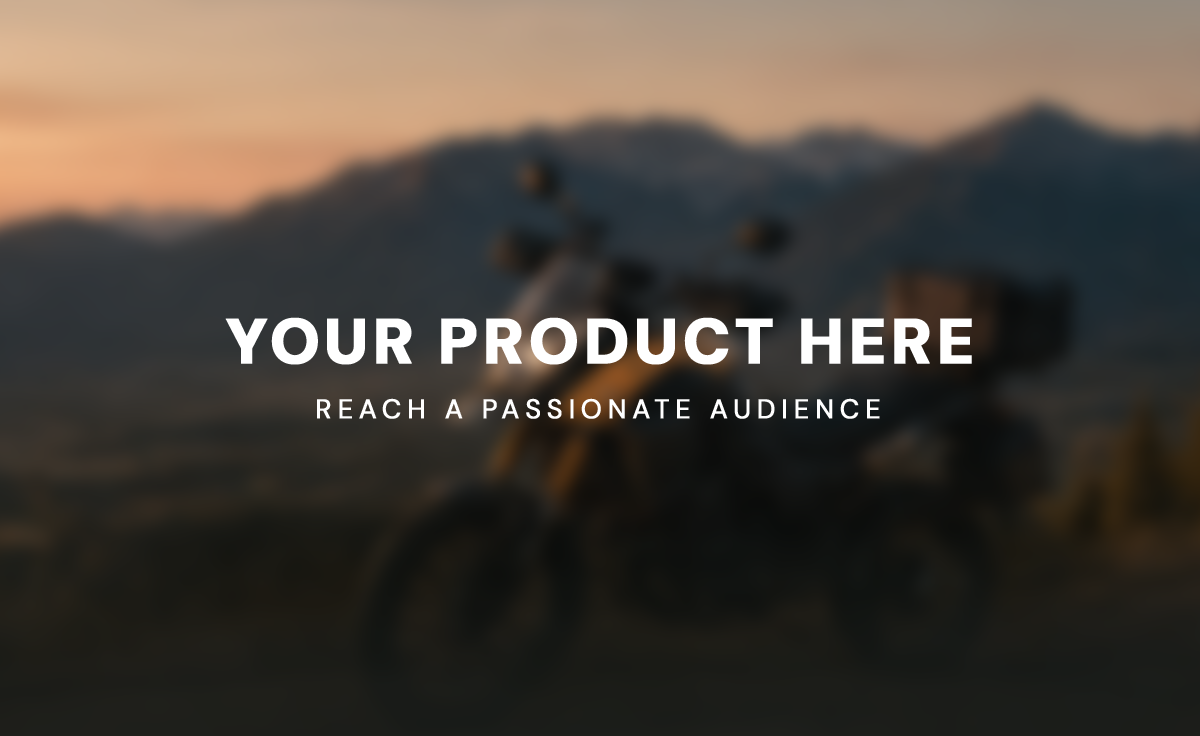
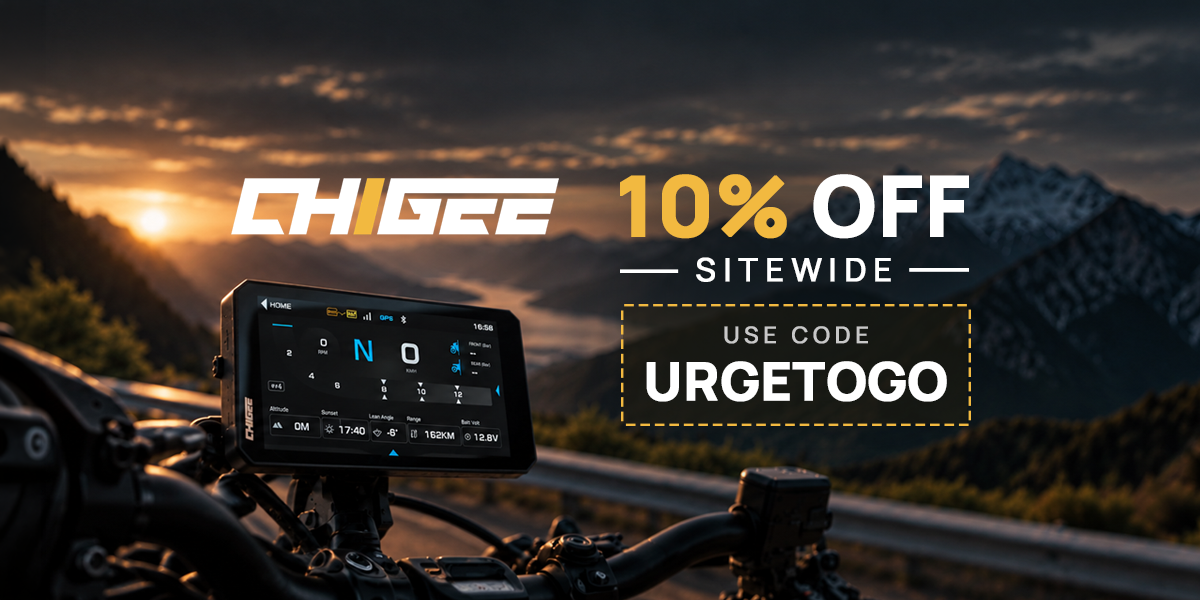
Add files via upload

diff --git a/motorcycle.html b/motorcycle.html
@@ -32,6 +32,11 @@
 <button aria-expanded="false" aria-label="Toggle navigation" class="menu">☰</button>
 </div>
 </header>
+<div class="motorcycle-promo-bar">
+  <span>
+    Use code <strong>URGETOGO</strong> on selected discounts!
+  </span>
+</div>
 <main>
 <section class="gear-page-hero gear-page-hero--motorcycle">
 <p class="eyebrow">URGE TO GO / MY SETUP</p>
@@ -67,6 +72,9 @@
 <h2>Accessories</h2>
 <p class="setup-category-subtitle">What I take</p>
 <ul class="setup-product-list">
+  <!-- Copy either list item to add another linked product with a discount badge. -->
+  <li><a href="https://www.chigee.com/URGETOGO" target="_blank" rel="noopener noreferrer">CHIGEE AIO-6 LTE ↗</a> <span class="setup-discount-badge">10% OFF</span></li>
+  <li><a href="https://carplaymotorcycle.com/?ref=URGETOGO" target="_blank" rel="noopener noreferrer">CPMC N6 CarPlay Screen ↗</a> <span class="setup-discount-badge">22% OFF</span></li>
   <li>
   <a href="https://monimoto.com/eu/product/tracker-monimoto-9/" target="_blank" rel="noopener noreferrer">
     Monimoto 9 GPS Tracker ↗
@@ -77,16 +85,16 @@
 </ul>
 </article>
 </div>
-<h2 class="setup-featured-title">FEATURED PRODUCTS</h2>
+<h2 class="setup-featured-title">FEATURED</h2>
 <div aria-label="Product sponsorship opportunities" class="setup-sponsors">
-<a aria-label="Featured product 1 — contact URGE TO GO" class="setup-sponsor-slot" href="index.html#contact">
-<img class="setup-sponsor-image" src="images/motorcycle-featured-1.png" alt="Advertising space — replace this image with your campaign">
+<a aria-label="Featured product 1" class="setup-sponsor-slot" href="https://www.chigee.com/URGETOGO">
+<img class="setup-sponsor-image" src="images/motorcycle-featured-1.png" alt="Featured Product 1">
 </a>
-<a aria-label="Featured product 2 — contact URGE TO GO" class="setup-sponsor-slot" href="index.html#contact">
-<img class="setup-sponsor-image" src="images/motorcycle-featured-2.png" alt="Advertising space — replace this image with your campaign">
+<a aria-label="Featured product 2" class="setup-sponsor-slot" href="index.html#contact">
+<img class="setup-sponsor-image" src="images/motorcycle-featured-2.png" alt="Featured Product 1">
 </a>
-<a aria-label="Featured product 3 — contact URGE TO GO" class="setup-sponsor-slot" href="index.html#contact">
-<img class="setup-sponsor-image" src="images/motorcycle-featured-3.png" alt="Advertising space — replace this image with your campaign">
+<a aria-label="Featured product 3" class="setup-sponsor-slot" href="https://carplaymotorcycle.com/?ref=URGETOGO">
+<img class="setup-sponsor-image" src="images/motorcycle-featured-3.png" alt="Featured Product 1">
 </a>
 </div>
 <p class="affiliate-note">Disclosure: Some product links may be affiliate links. I may earn a commission at no additional cost to you.</p>

diff --git a/style.css b/style.css
@@ -1852,3 +1852,71 @@ footer {
 .collab-partners .collab-partner-slot:hover .shared-partner-logo {
   transform: scale(1.15);
 }
+
+/* Reusable inline discount label for setup product lists. */
+.setup-product-list .setup-discount-badge {
+  display: inline-block;
+  vertical-align: middle;
+  margin-left: 5px;
+  padding: 1px 6px;
+  border-radius: 3px;
+  background: #bb302c;
+  color: #fff;
+  font-size: 12px;
+  font-weight: 800;
+  line-height: 1.5;
+  white-space: nowrap;
+}
+
+/* Align product text and discount badge by their vertical centers, not baselines. */
+.setup-product-list li:has(> .setup-discount-badge) {
+  display: flex;
+  align-items: center;
+  flex-wrap: wrap;
+  column-gap: 7px;
+  row-gap: 3px;
+}
+.setup-product-list li > .setup-discount-badge {
+  margin-left: 0;
+  vertical-align: baseline; /* Flex alignment controls vertical position. */
+  flex: 0 0 auto;
+}
+
+/* Sticky discount announcement below the navigation */
+.motorcycle-promo-bar {
+  position: sticky;
+  top: 76px;
+  z-index: 29;
+  display: flex;
+  justify-content: center;
+  align-items: center;
+  min-height: 38px;
+  padding: 9px 16px;
+  background: #a92e2b;
+  color: #fff;
+  text-align: center;
+  font: 400 12px/1.4 Manrope, sans-serif;
+  letter-spacing: .065em;
+}
+
+/* Extra-bold discount code */
+.motorcycle-promo-bar strong {
+  font-weight: 800;
+  font-size: 13px;
+  color: #fff;
+  letter-spacing: 1px;
+}
+
+/* Mobile adjustments */
+@media (max-width: 800px) {
+  .motorcycle-promo-bar {
+    top: 66px;
+    padding: 8px 12px;
+    font-size: 10px;
+    letter-spacing: .025em;
+  }
+
+  .motorcycle-promo-bar strong {
+    font-size: 11px;
+  }
+}

diff --git a/camping.html b/camping.html
@@ -64,16 +64,16 @@
 </ul>
 </article>
 </div>
-<h2 class="setup-featured-title">FEATURED PRODUCTS</h2>
+<h2 class="setup-featured-title">FEATURED</h2>
 <div aria-label="Product sponsorship opportunities" class="setup-sponsors">
 <a aria-label="Featured product 1 — contact URGE TO GO" class="setup-sponsor-slot" href="index.html#contact">
-<img class="setup-sponsor-image" src="images/camping-featured-1.png" alt="Advertising space — replace this image with your campaign">
+<img class="setup-sponsor-image" src="images/camping-featured-1.png" alt="Featured Product 1">
 </a>
 <a aria-label="Featured product 2 — contact URGE TO GO" class="setup-sponsor-slot" href="index.html#contact">
-<img class="setup-sponsor-image" src="images/camping-featured-2.png" alt="Advertising space — replace this image with your campaign">
+<img class="setup-sponsor-image" src="images/camping-featured-2.png" alt="Featured Product 2">
 </a>
 <a aria-label="Featured product 3 — contact URGE TO GO" class="setup-sponsor-slot" href="index.html#contact">
-<img class="setup-sponsor-image" src="images/camping-featured-3.png" alt="Advertising space — replace this image with your campaign">
+<img class="setup-sponsor-image" src="images/camping-featured-3.png" alt="Featured Product 3">
 </a>
 </div>
 <p class="affiliate-note">Disclosure: Some product links may be affiliate links. I may earn a commission at no additional cost to you.</p>

diff --git a/equipment.html b/equipment.html
@@ -64,16 +64,16 @@
 </ul>
 </article>
 </div>
-<h2 class="setup-featured-title">FEATURED PRODUCTS</h2>
+<h2 class="setup-featured-title">FEATURED</h2>
 <div aria-label="Product sponsorship opportunities" class="setup-sponsors">
 <a aria-label="Featured product 1 — contact URGE TO GO" class="setup-sponsor-slot" href="index.html#contact">
-<img class="setup-sponsor-image" src="images/filming-featured-1.png" alt="Advertising space — replace this image with your campaign">
+<img class="setup-sponsor-image" src="images/filming-featured-1.png" alt="Featured Product 1">
 </a>
 <a aria-label="Featured product 2 — contact URGE TO GO" class="setup-sponsor-slot" href="index.html#contact">
-<img class="setup-sponsor-image" src="images/filming-featured-2.png" alt="Advertising space — replace this image with your campaign">
+<img class="setup-sponsor-image" src="images/filming-featured-2.png" alt="Featured Product 2">
 </a>
 <a aria-label="Featured product 3 — contact URGE TO GO" class="setup-sponsor-slot" href="index.html#contact">
-<img class="setup-sponsor-image" src="images/filming-featured-3.png" alt="Advertising space — replace this image with your campaign">
+<img class="setup-sponsor-image" src="images/filming-featured-3.png" alt="Featured Product 3">
 </a>
 </div>
 <p class="affiliate-note">Disclosure: Some product links may be affiliate links. I may earn a commission at no additional cost to you.</p>
